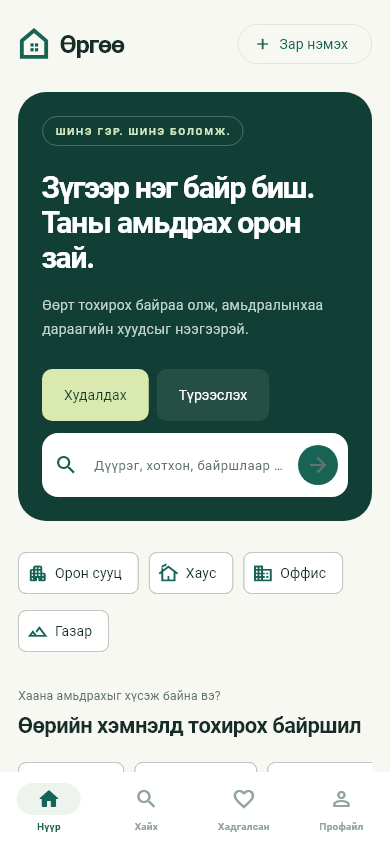
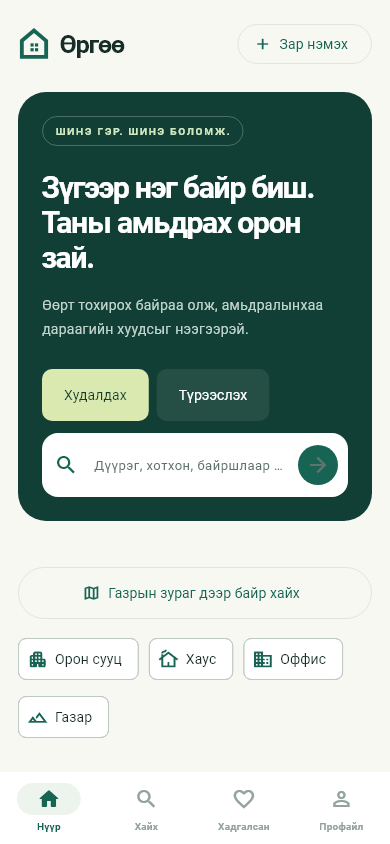
sd

Changed region(s): [[0.0308, 0.6469, 0.9231, 0.8934], [0.6154, 0.7701, 0.8308, 0.8009]]

diff --git a/bair_app/test/widget_test.dart b/bair_app/test/widget_test.dart
@@ -377,7 +377,7 @@ void main() {
       final store = testStore(
         requests,
         handler: (r) async {
-          if (r.url.path == '/api/properties/')
+          if (r.url.path == '/api/properties/') {
             return jsonResponse({
               'count': 1,
               'next': null,
@@ -385,6 +385,7 @@ void main() {
                 {...sample, 'latitude': 47.9185, 'longitude': 106.9177},
               ],
             });
+          }
           return http.Response('', 418);
         },
       );
@@ -395,10 +396,15 @@ void main() {
         find.byType(MaterialApp),
         matchesGoldenFile('../docs/screenshots/home-desktop.png'),
       );
+      final appTheme = tester
+          .widget<MaterialApp>(find.byType(MaterialApp))
+          .theme;
       await tester.pumpWidget(
         AppScope(
           store: store,
           child: MaterialApp(
+            debugShowCheckedModeBanner: false,
+            theme: appTheme,
             home: PropertyMapPage(
               query: const {'listing_type': 'sale'},
               tileBuilder: (_) => const ColoredBox(color: Color(0xFFE4EADF)),

diff --git a/bair_app/lib/screens/home_page.dart b/bair_app/lib/screens/home_page.dart
@@ -158,6 +158,7 @@ class _HomePageState extends State<HomePage> {
                       child: Text('Газрын зураг дээр байр хайх'),
                     ),
                   ),
+                  const SizedBox(height: 16),
                   Wrap(
                     spacing: 10,
                     runSpacing: 10,
